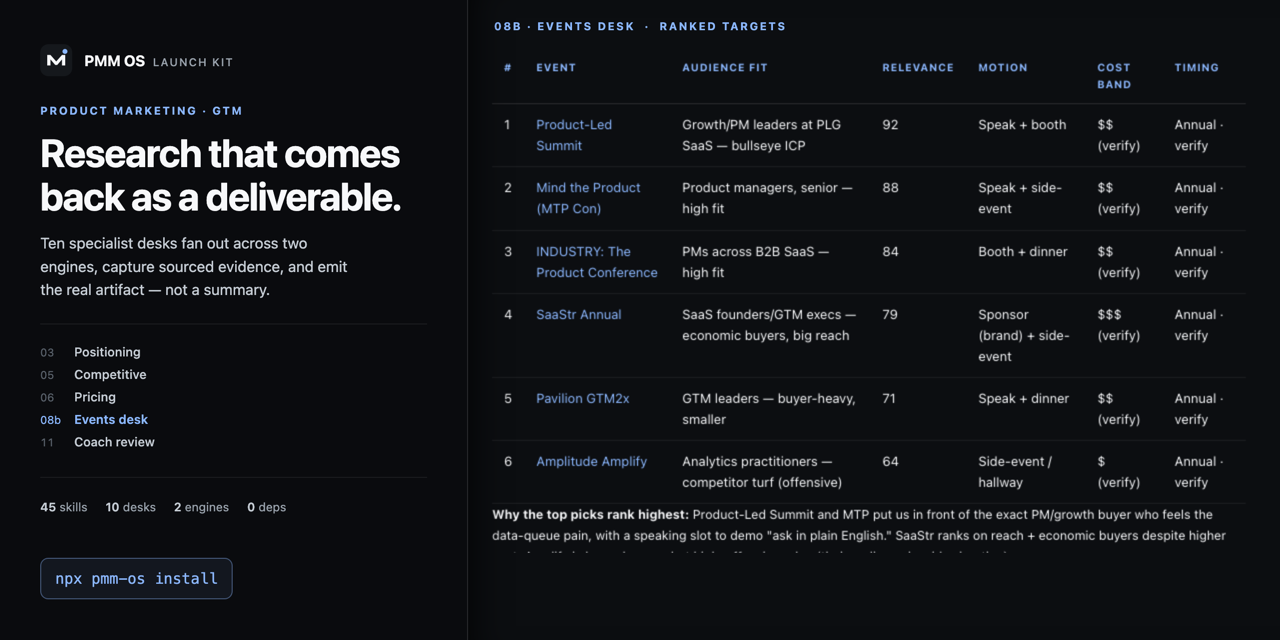
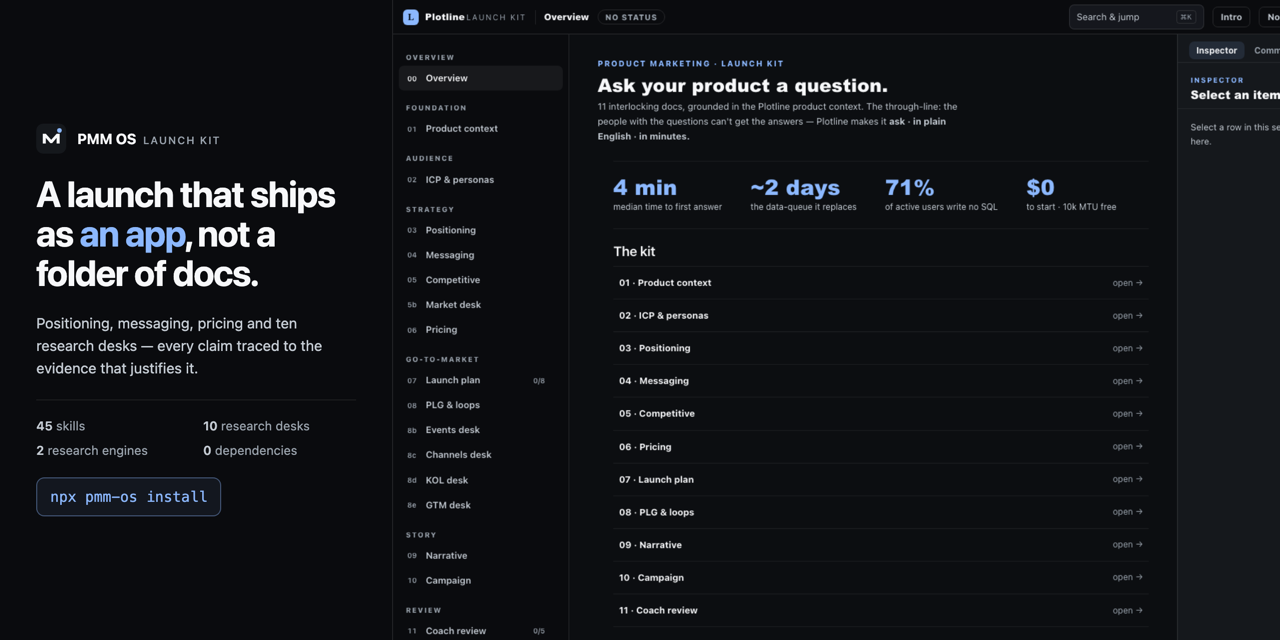
design: share image shows the whole workspace, and the script says what it did
Two problems, one visible and one not.

The card cropped to a single table, so the thing that actually changed — four
new research desks in the sidebar — wasn't in it. It now shows the full app at
0.711 scale, full bleed: toolbar, the complete ten-desk sidebar, the stat row,
the kit list, the inspector. Body text goes small; that's fine. Nobody reads a
social card, they recognise one, and the shape of a real workspace is the
message. Headline changed to match what's shown.

The script looked like a no-op whenever the images were already current, which
is most of the time — it printed the same checkmarks either way. It now
diffs checksums and reports unchanged / UPDATED / new per file, with a summary.

Also fixes a portability bug that would have hit anyone who ran it: `declare -A`
needs bash 4, and macOS ships 3.2. Checksums go through a temp file instead.
Verified under /bin/bash 3.2.57.

diff --git a/docs/images/social-preview.source.html b/docs/images/social-preview.source.html
@@ -1,74 +1,49 @@
 <!doctype html>
-<!-- Social preview source. Regenerate after editing:
-       cd docs/images && chrome --headless --force-device-scale-factor=2 \
-         --screenshot=social-preview@2x.png --window-size=1280,640 file://$PWD/social-preview.source.html
-     Palette is lifted from skills/pmm-launch-kit/scripts/.kit-style.css — if the kit
-     is restyled, update both or the card stops matching the product. -->
+<!-- Social preview source. Regenerate with: bash scripts/regen-screenshots.sh
+     Palette is lifted from skills/pmm-launch-kit/scripts/.kit-style.css — if the
+     kit is restyled, this follows automatically because the screenshot does. -->
 <meta charset="utf-8">
 <style>
-  /* Palette lifted verbatim from skills/pmm-launch-kit/scripts/.kit-style.css,
-     so the card and the product are the same surface rather than a lookalike. */
   :root {
-    --bg:#0c0e11; --side:#0a0b0e; --ink:#f7f8fa; --muted:#c5ccd4; --dim:#9aa3ad;
-    --accent:#8cb8ff; --accent-line:rgba(140,184,255,.40); --line2:rgba(255,255,255,.12);
+    --side:#0a0b0e; --ink:#f7f8fa; --muted:#c5ccd4; --dim:#9aa3ad;
+    --accent:#8cb8ff; --accent-line:rgba(140,184,255,.40);
   }
   * { margin:0; padding:0; box-sizing:border-box; }
   html,body { width:1280px; height:640px; overflow:hidden; }
   body {
-    background:var(--side);
+    background:var(--side); color:var(--ink);
     font-family:-apple-system,BlinkMacSystemFont,"SF Pro Text",Inter,system-ui,sans-serif;
-    color:var(--ink);
-    display:grid; grid-template-columns:468px 1fr;
+    display:grid; grid-template-columns:392px 1fr; align-items:center;
   }
 
-  /* ---------- left rail: the kit's own sidebar ---------- */
-  .rail {
-    background:var(--side); border-right:1px solid var(--line2);
-    padding:44px 40px; display:flex; flex-direction:column; gap:28px;
-  }
-  .brand { display:flex; align-items:center; gap:12px; }
-  .brand svg { width:32px; height:32px; border-radius:8px; display:block; }
-  .brand .n { font-size:15px; font-weight:700; letter-spacing:-.01em; }
-  .brand .n span { color:var(--dim); font-weight:500; letter-spacing:.12em; font-size:11px;
-                   text-transform:uppercase; margin-left:8px; }
+  .rail { padding:0 36px; display:flex; flex-direction:column; gap:20px; }
+  .brand { display:flex; align-items:center; gap:11px; }
+  .brand svg { width:30px; height:30px; border-radius:7px; display:block; }
+  .brand .n { font-size:14.5px; font-weight:700; letter-spacing:-.01em; }
+  .brand .n span { color:var(--dim); font-weight:500; letter-spacing:.12em;
+                   font-size:10.5px; text-transform:uppercase; margin-left:7px; }
 
-  .eyebrow { font-size:11px; font-weight:700; letter-spacing:.16em; text-transform:uppercase;
-             color:var(--accent); margin-bottom:14px; }
-  h1 { font-size:39px; line-height:1.11; font-weight:700; letter-spacing:-.028em; }
-  .sub { margin-top:14px; font-size:15px; line-height:1.55; color:var(--muted); max-width:33ch; }
+  h1 { font-size:36px; line-height:1.1; font-weight:700; letter-spacing:-.028em; }
+  h1 em { font-style:normal; color:var(--accent); }
+  .sub { font-size:14.5px; line-height:1.55; color:var(--muted); }
 
-  /* the numbered section list people recognise from the kit */
-  .toc { margin-top:22px; display:grid; gap:8px; padding-top:20px;
-         border-top:1px solid rgba(255,255,255,.07); }
-  .toc div { display:flex; gap:12px; font-size:12.5px; align-items:baseline; }
-  .toc b { color:var(--muted); font-weight:500; }
-  .toc i { font-style:normal; color:#5b636d; font-variant-numeric:tabular-nums;
-           font-size:11px; min-width:22px; }
-  .toc .on b { color:var(--accent); font-weight:600; }
-  .toc .on i { color:var(--accent); }
+  .facts { display:grid; grid-template-columns:1fr 1fr; gap:10px 14px;
+           padding-top:18px; border-top:1px solid rgba(255,255,255,.08); }
+  .facts div { font-size:12.5px; color:var(--dim); }
+  .facts b { color:var(--muted); font-weight:600; }
 
-  .proof { margin-top:auto; padding-top:22px; display:flex; gap:18px; font-size:12px;
-           color:var(--dim); border-top:1px solid rgba(255,255,255,.07); }
-  .proof b { color:var(--muted); font-weight:600; }
-  .cmd { margin-top:16px; font-family:ui-monospace,"SF Mono",Menlo,monospace; font-size:15px;
+  .cmd { font-family:ui-monospace,"SF Mono",Menlo,monospace; font-size:14.5px;
          color:var(--accent); border:1px solid var(--accent-line); border-radius:8px;
-         padding:11px 14px; background:rgba(140,184,255,.07); align-self:start; }
+         padding:10px 13px; background:rgba(140,184,255,.07); align-self:start; }
 
-  /* ---------- right: real UI, native scale, spliced past the disclaimer ---------- */
-  .shot { position:relative; overflow:hidden; background:var(--bg); }
-  .band { position:relative; overflow:hidden; }
-  .band img { position:absolute; width:1440px; height:900px; left:-286px;
-              image-rendering:-webkit-optimize-contrast; }
-  .label { height:52px; display:flex; align-items:center; padding:0 0 0 26px;
-           font-size:11px; font-weight:700; letter-spacing:.16em; text-transform:uppercase;
-           color:var(--accent); background:var(--bg); }
-  .band.grid { height:501px; }           /* table + the reasoning, stopping before the first-run toast */
-  .band.grid img { top:-330px; }
-  /* seat it in the card: shadow into the rail, fade out at the bleed */
-  .shot::after {
-    content:""; position:absolute; inset:0; pointer-events:none;
-    box-shadow:inset 30px 0 40px -30px rgba(0,0,0,.9);
-    background:linear-gradient(to bottom, transparent 84%, rgba(12,14,17,.55) 92%, rgba(12,14,17,.9) 100%);
+  /* The whole app, scaled to fit — the point is the shape of a real workspace:
+     toolbar, ten-desk sidebar, content, inspector. Body text going small is fine;
+     nobody reads a social card, they recognise it. */
+  .app { height:640px; display:flex; align-items:flex-start; overflow:hidden; }
+  .app img {
+    width:1024px; height:640px;     /* 1440x900 at 0.711 — full bleed */
+    margin-left:0;
+    border-left:1px solid rgba(255,255,255,.10);
   }
 </style>
 
@@ -82,28 +57,16 @@
     <div class="n">PMM OS<span>Launch Kit</span></div>
   </div>
 
-  <div>
-    <div class="eyebrow">Product Marketing &middot; GTM</div>
-    <h1>Research that comes back as a deliverable.</h1>
-    <p class="sub">Ten specialist desks fan out across two engines, capture sourced
-      evidence, and emit the real artifact &mdash; not a summary.</p>
-    <div class="toc">
-      <div><i>03</i><b>Positioning</b></div>
-      <div><i>05</i><b>Competitive</b></div>
-      <div><i>06</i><b>Pricing</b></div>
-      <div class="on"><i>08b</i><b>Events desk</b></div>
-      <div><i>11</i><b>Coach review</b></div>
-    </div>
+  <h1>A launch that ships as <em>an app</em>, not a folder of docs.</h1>
+  <p class="sub">Positioning, messaging, pricing and ten research desks — every
+    claim traced to the evidence that justifies it.</p>
+
+  <div class="facts">
+    <div><b>45</b> skills</div><div><b>10</b> research desks</div>
+    <div><b>2</b> research engines</div><div><b>0</b> dependencies</div>
   </div>
 
-  <div class="proof">
-    <span><b>45</b> skills</span><span><b>10</b> desks</span>
-    <span><b>2</b> engines</span><span><b>0</b> deps</span>
-  </div>
   <div class="cmd">npx pmm-os install</div>
 </div>
 
-<div class="shot">
-  <div class="label">08b &middot; Events desk &nbsp;&middot;&nbsp; ranked targets</div>
-  <div class="band grid"><img src="./events-desk.png" alt=""></div>
-</div>
+<div class="app"><img src="./overview.png" alt=""></div>

diff --git a/demo/plotline-launch/plotline-launch-kit.html b/demo/plotline-launch/plotline-launch-kit.html
@@ -445,7 +445,7 @@ table.db-table tr.sel-able:hover td{background:rgba(255,255,255,.025)}
     <div class="nav"><a href="#v-coach" data-v="v-coach"><span class="ix">11</span><span class="nl">Coach review</span><span class="scnt"></span><span class="sdot"></span></a></div>
     <div class="grp">Appendix</div>
     <div class="nav"><a href="#v-exports" data-v="v-exports"><span class="ix">+</span><span class="nl">Exports</span><span class="scnt"></span><span class="sdot"></span></a></div>
-    <div class="sidefoot"><b>Launch-gating:</b> broke-ICP monetization + brand-safety perception. Make consent / AI-label / anti-fraud structural before scaling loops.<br/><span class="dim" style="font-size:10px">build 2026-07-30 03:19 UTC</span></div>
+    <div class="sidefoot"><b>Launch-gating:</b> broke-ICP monetization + brand-safety perception. Make consent / AI-label / anti-fraud structural before scaling loops.<br/><span class="dim" style="font-size:10px">build 2026-07-30 03:34 UTC</span></div>
   </nav>
   <main class="work" id="work">
     <article class="view" id="v-overview" data-title="Overview">
